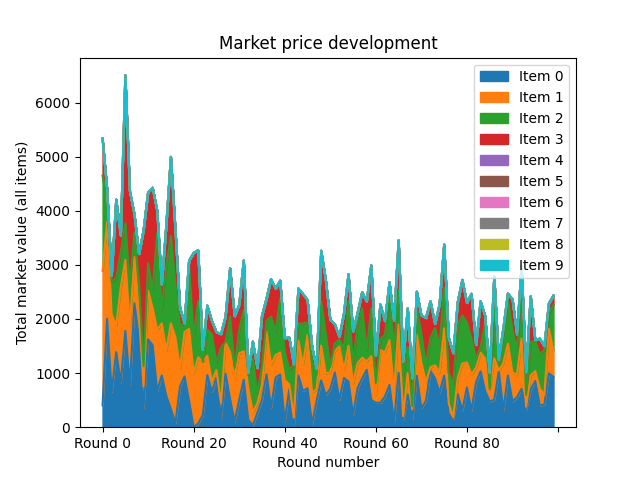
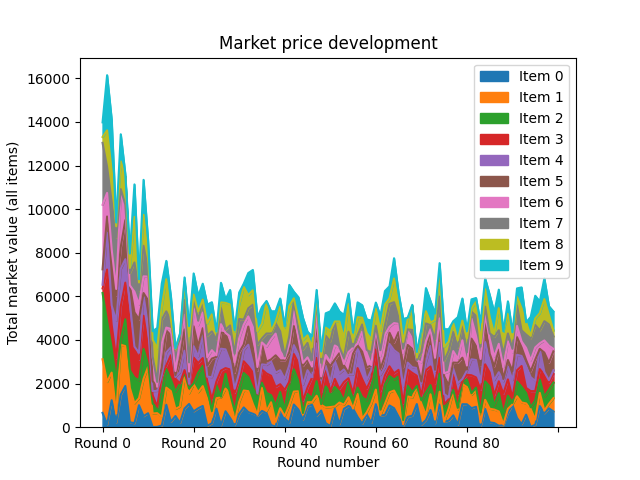
fixed leveled auction

diff --git a/ass2/auctioning.py b/ass2/auctioning.py
@@ -197,9 +197,10 @@ class Auction:
                     worst_buy = winner.get_least_profitable_buy()
                     fee = self.penalty_factor * worst_buy['winner_payout']
 
-                    item.seller.profit += fee
-                    item.seller.profit -= winner_payout - item.starting_price
-                    winner.profit -= fee
+                    if fee < item.get_market_price() - winner_payout:
+                        item.seller.profit += fee
+                        item.seller.profit -= worst_buy['winner_payout'] - worst_buy['item'].starting_price
+                        winner.profit -= fee
                 winners.append(winner)
 
                 if self.auction_type == auction_pure:
